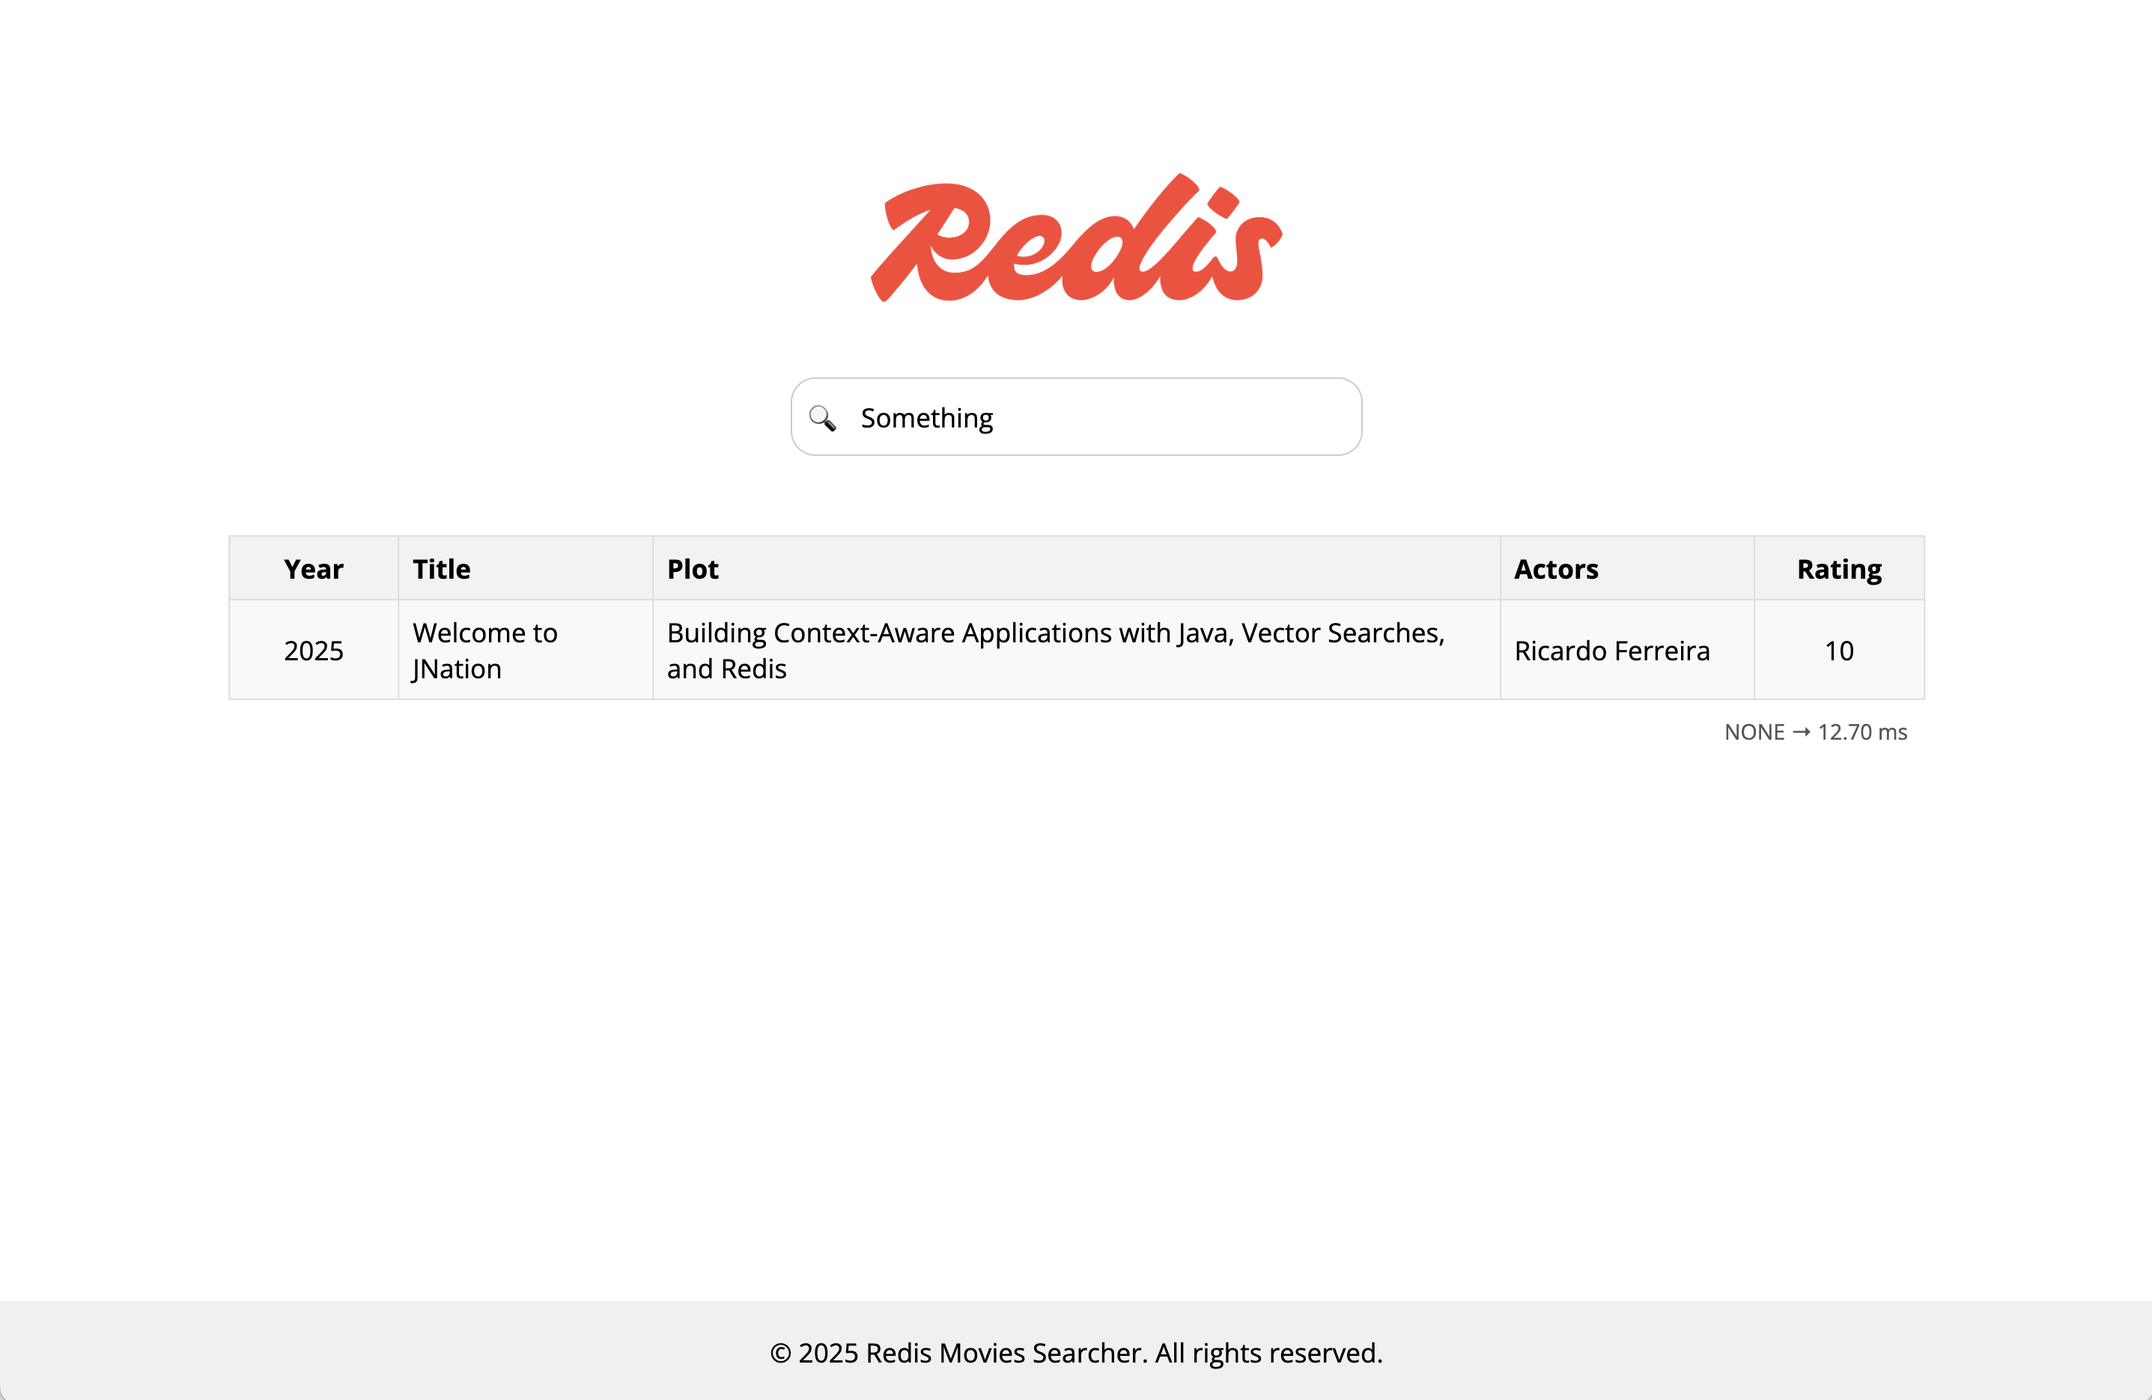
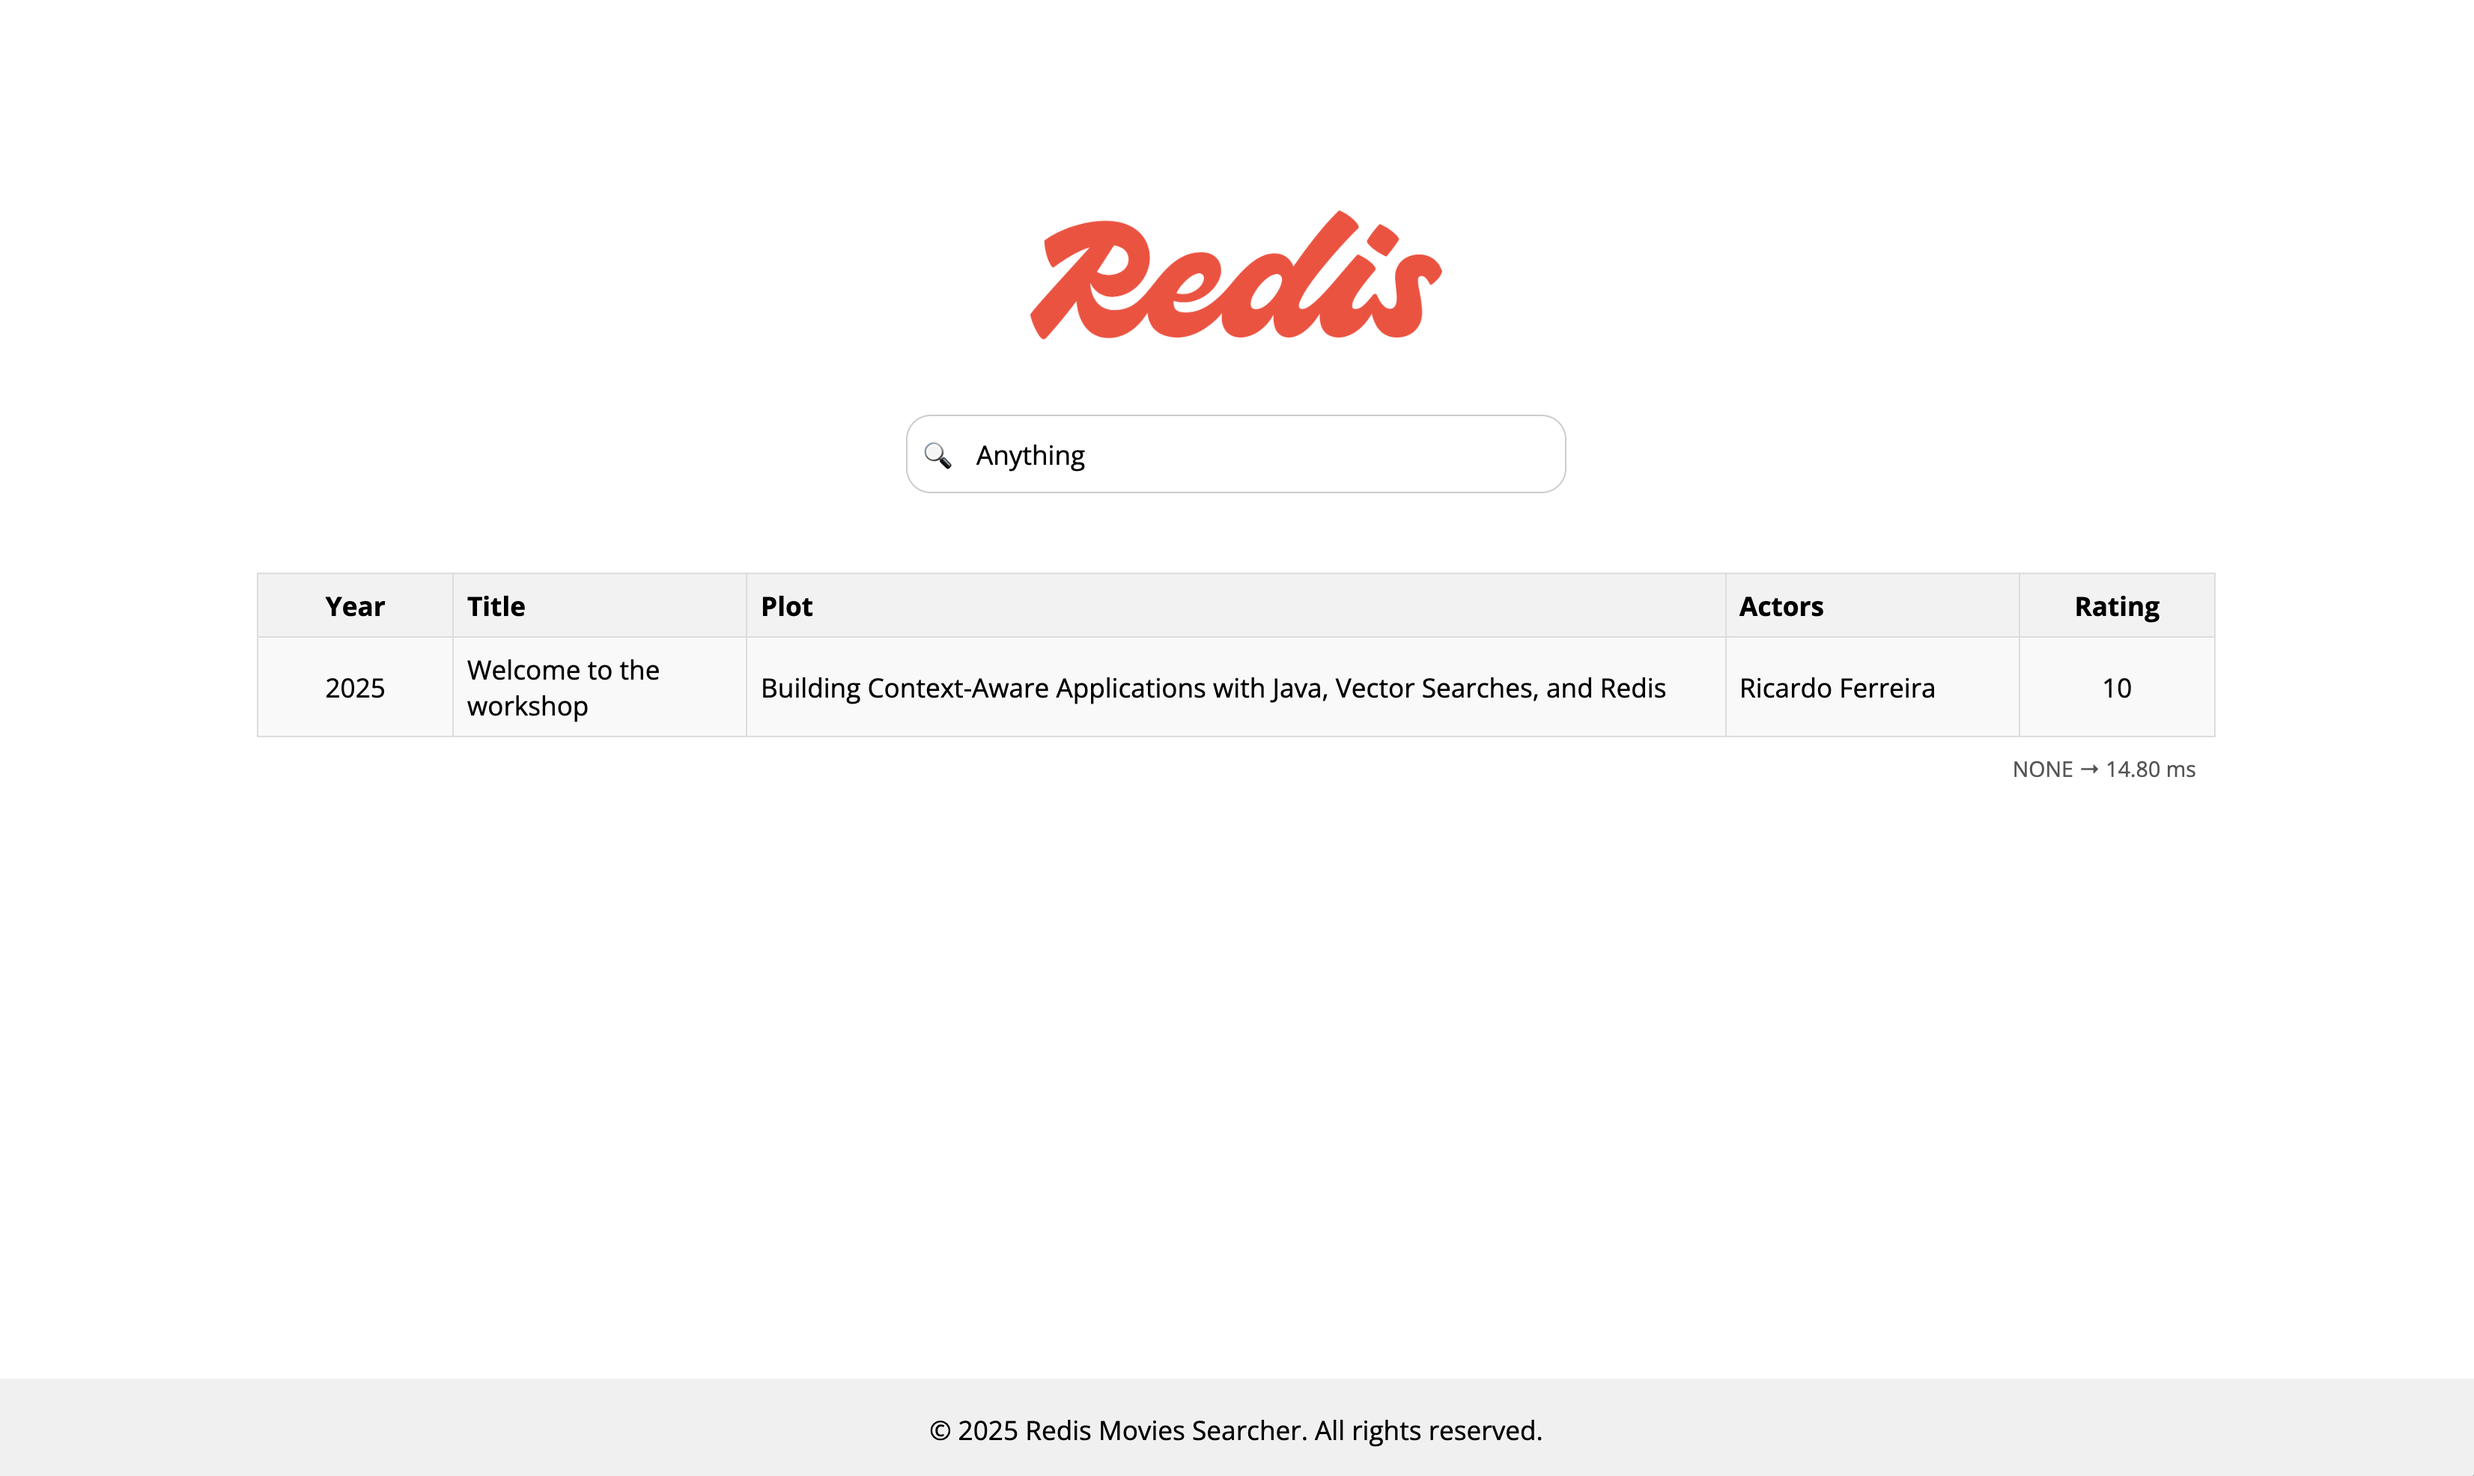
Remove JNation

diff --git a/src/main/java/io/redis/movies/searcher/core/service/SearchService.java b/src/main/java/io/redis/movies/searcher/core/service/SearchService.java
@@ -21,7 +21,7 @@ public class SearchService {
         final int resultLimit = (limit == null) ? 3 : limit;
 
         List<Movie> movies = List.of(new Movie(
-                1, "Welcome to JNation", 2025,
+                1, "Welcome to the workshop", 2025,
                 "Building Context-Aware Applications with Java, Vector Searches, and Redis",
                 "2025-05-28", 10.0, List.of("Ricardo Ferreira")));
 
